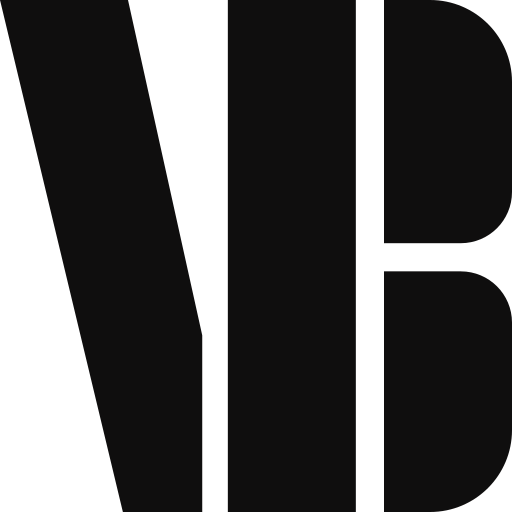
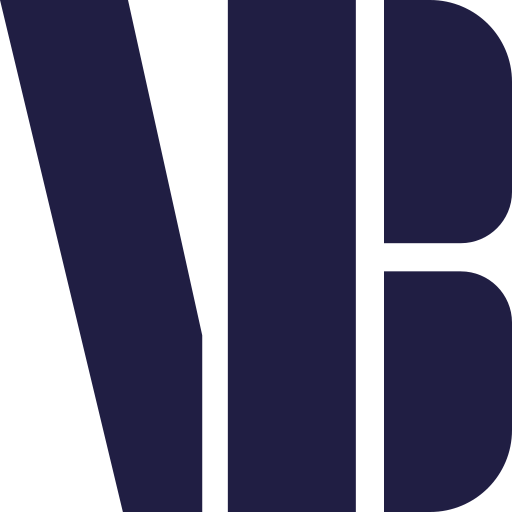
optimization

diff --git a/src/app/layout.tsx b/src/app/layout.tsx
@@ -14,7 +14,7 @@ const bricolageGrotesque = Bricolage_Grotesque({
 });
 
 export const viewport: Viewport = {
-  themeColor: "#0F0E0E",
+  themeColor: "#201E43",
   width: "device-width",
   initialScale: 1,
   maximumScale: 5,
@@ -23,11 +23,28 @@ export const viewport: Viewport = {
 export const metadata: Metadata = {
   metadataBase: new URL("https://barnetvilem.com"),
   title: {
-    default: "Vilém Barnet | Full-Stack Engineer",
-    template: "%s | Vilém Barnet",
+    default: "Vilém Barnet — Developer & Designer",
+    template: "%s — Vilém Barnet",
   },
   description:
-    "Full-Stack Engineer specializing in React, Next.js, TypeScript, and AI integration. Building elegant web solutions that drive results.",
+    "Vilém Barnet — freelance full-stack developer and web designer. I build high-performance websites, web apps, and brands using React, Next.js, and TypeScript. Available for hire.",
+  keywords: [
+    "Vilém Barnet",
+    "Vilem Barnet",
+    "full-stack developer",
+    "web developer",
+    "web designer",
+    "freelance developer",
+    "React developer",
+    "Next.js developer",
+    "TypeScript developer",
+    "frontend developer",
+    "web design",
+    "web applications",
+    "branding",
+    "UI design",
+    "portfolio",
+  ],
   authors: [{ name: "Vilém Barnet", url: "https://barnetvilem.com" }],
   creator: "Vilém Barnet",
   publisher: "Vilém Barnet",
@@ -56,38 +73,38 @@ export const metadata: Metadata = {
       {
         rel: "mask-icon",
         url: "/favicon.svg",
-        color: "#0F0E0E",
+        color: "#201E43",
       },
     ],
   },
   manifest: "/manifest.json",
   openGraph: {
     type: "website",
-    locale: "cs_CZ",
-    url: "https://vilembarnet.com",
+    locale: "en_US",
+    url: "https://barnetvilem.com",
     siteName: "Vilém Barnet",
-    title: "Vilém Barnet | Full-Stack Engineer",
+    title: "Vilém Barnet — Developer & Designer",
     description:
-      "Full-Stack Engineer specializing in React, Next.js, TypeScript, and AI integration. Building elegant web solutions that drive results.",
+      "Freelance full-stack developer and web designer building high-performance websites, web apps, and brands with React, Next.js, and TypeScript.",
     images: [
       {
-        url: "/og-image.jpg",
+        url: "/og-image.png",
         width: 1200,
         height: 630,
-        alt: "Vilém Barnet - Full-Stack Engineer",
+        alt: "Vilém Barnet — Developer & Designer",
       },
     ],
   },
   twitter: {
     card: "summary_large_image",
-    title: "Vilém Barnet | Full-Stack Engineer",
+    title: "Vilém Barnet — Developer & Designer",
     description:
-      "Full-Stack Engineer specializing in React, Next.js, TypeScript, and AI integration. Building elegant web solutions that drive results.",
+      "Freelance full-stack developer and web designer building high-performance websites, web apps, and brands with React, Next.js, and TypeScript.",
     creator: "@barnetvilem",
-    images: ["/og-image.jpg"],
+    images: ["/og-image.png"],
   },
   alternates: {
-    canonical: "https://vilembarnet.com",
+    canonical: "https://barnetvilem.com",
   },
   verification: {
     google: "googleeee94309a9949b14.html",
@@ -115,26 +132,87 @@ export default function RootLayout({
           dangerouslySetInnerHTML={{
             __html: JSON.stringify({
               "@context": "https://schema.org",
-              "@type": "Person",
-              name: "Vilém Barnet",
-              jobTitle: "Full-Stack Engineer",
-              description:
-                "Full-Stack Engineer specializing in React, Next.js, TypeScript, and AI integration",
-              url: "https://barnetvilem.com",
-              sameAs: [
-                "https://github.com/vilemb",
-                "https://x.com/barnetvilem",
-                "https://www.linkedin.com/in/vil%C3%A9m-barnet-497003365/",
-              ],
-              knowsAbout: [
-                "React",
-                "Next.js",
-                "TypeScript",
-                "JavaScript",
-                "Node.js",
-                "Python",
-                "AI Integration",
-                "Web Development",
+              "@graph": [
+                {
+                  "@type": "Person",
+                  "@id": "https://barnetvilem.com/#person",
+                  name: "Vilém Barnet",
+                  alternateName: "Vilem Barnet",
+                  jobTitle: "Full-Stack Developer & Web Designer",
+                  description:
+                    "Freelance full-stack developer and web designer specializing in React, Next.js, TypeScript, and modern web technologies. Building high-performance websites, web applications, and brand identities.",
+                  url: "https://barnetvilem.com",
+                  email: "barnetv7@gmail.com",
+                  sameAs: [
+                    "https://github.com/vilemb",
+                    "https://x.com/barnetvilem",
+                    "https://www.linkedin.com/in/vil%C3%A9m-barnet-497003365/",
+                    "https://instagram.com/barnetvilem",
+                  ],
+                  knowsAbout: [
+                    "React",
+                    "Next.js",
+                    "TypeScript",
+                    "JavaScript",
+                    "Node.js",
+                    "Python",
+                    "AI Integration",
+                    "Web Development",
+                    "Web Design",
+                    "UI/UX Design",
+                    "GSAP",
+                    "Branding",
+                    "Three.js",
+                    "Tailwind CSS",
+                  ],
+                  makesOffer: [
+                    {
+                      "@type": "Offer",
+                      itemOffered: {
+                        "@type": "Service",
+                        name: "Web Application Development",
+                        description:
+                          "Custom web application development using React, Next.js, and TypeScript",
+                      },
+                    },
+                    {
+                      "@type": "Offer",
+                      itemOffered: {
+                        "@type": "Service",
+                        name: "Web Design",
+                        description:
+                          "Modern, responsive web design with clean structure and considered motion",
+                      },
+                    },
+                    {
+                      "@type": "Offer",
+                      itemOffered: {
+                        "@type": "Service",
+                        name: "Branding",
+                        description:
+                          "Brand identity design including logos, visual systems, and brand guidelines",
+                      },
+                    },
+                  ],
+                },
+                {
+                  "@type": "WebSite",
+                  "@id": "https://barnetvilem.com/#website",
+                  url: "https://barnetvilem.com",
+                  name: "Vilém Barnet — Developer & Designer",
+                  publisher: {
+                    "@id": "https://barnetvilem.com/#person",
+                  },
+                },
+                {
+                  "@type": "ProfilePage",
+                  "@id": "https://barnetvilem.com/#profilepage",
+                  url: "https://barnetvilem.com",
+                  name: "Vilém Barnet Portfolio",
+                  mainEntity: {
+                    "@id": "https://barnetvilem.com/#person",
+                  },
+                },
               ],
             }),
           }}

diff --git a/src/app/work/layout.tsx b/src/app/work/layout.tsx
@@ -1,16 +1,19 @@
 import type { Metadata } from 'next';
 
 export const metadata: Metadata = {
-  title: 'Work & Projects',
-  description: 'Explore my portfolio of web applications, design projects, and branding work. Featuring Studio Eclipse, Stepps.AI, Lumenapps, and Travist.',
+  title: 'Selected Work',
+  description: 'Selected projects by Vilém Barnet — web applications, UI/UX design, and branding. Featuring Studio Eclipse, Stepps.AI, Lumenapps, and Travist. Built with React, Next.js, and TypeScript.',
   openGraph: {
-    title: 'Work & Projects | Vilém Barnet',
-    description: 'Explore my portfolio of web applications, design projects, and branding work.',
+    title: 'Selected Work — Vilém Barnet',
+    description: 'Selected projects by Vilém Barnet — web applications, UI/UX design, and branding work built with React, Next.js, and TypeScript.',
     url: 'https://barnetvilem.com/work',
   },
   twitter: {
-    title: 'Work & Projects | Vilém Barnet',
-    description: 'Explore my portfolio of web applications, design projects, and branding work.',
+    title: 'Selected Work — Vilém Barnet',
+    description: 'Selected projects by Vilém Barnet — web applications, UI/UX design, and branding work built with React, Next.js, and TypeScript.',
+  },
+  alternates: {
+    canonical: 'https://barnetvilem.com/work',
   },
 };
 

diff --git a/src/components/sections/DesignEthos.tsx b/src/components/sections/DesignEthos.tsx
@@ -32,7 +32,7 @@ export default function DesignEthos() {
         });
 
         tl.to(wordsElements, {
-            color: "#0F0E0E",
+            color: "#201E43",
             stagger: 0.1,
             ease: "power2.out",
         });
@@ -63,7 +63,7 @@ export default function DesignEthos() {
                     <div className="ethos-top-left">
                         <h2 ref={headingRef} className="ethos-heading">
                             {words.map((word, i) => (
-                                <span key={i} className="ethos-word" style={{ color: "color-mix(in srgb, var(--color-dark) 30%, var(--color-light))" }}>
+                                <span key={i} className="ethos-word" style={{ color: "#B0B0BB" }}>
                                     {word}{" "}
                                 </span>
                             ))}

diff --git a/src/components/sections/DrivenSection.tsx b/src/components/sections/DrivenSection.tsx
@@ -32,7 +32,7 @@ export default function DrivenSection() {
         });
 
         tl.to(wordsElements, {
-            color: "#0F0E0E",
+            color: "#201E43",
             stagger: 0.1,
             ease: "power2.out",
         });
@@ -60,7 +60,7 @@ export default function DrivenSection() {
                 <div className="driven-inner">
                     <h2 ref={headingRef} className="driven-heading">
                         {words.map((word, i) => (
-                            <span key={i} className="driven-word" style={{ color: "color-mix(in srgb, var(--color-dark) 30%, var(--color-light))" }}>
+                            <span key={i} className="driven-word" style={{ color: "#B0B0BB" }}>
                                 {word}{" "}
                             </span>
                         ))}

diff --git a/src/styles/globals.css b/src/styles/globals.css
@@ -5,9 +5,9 @@
 @import "./work.css";
 
 :root {
-  --color-light: #FCF9EA;
-  --color-dark: #0F0E0E;
-  --color-accent: #468A9A;
+  --color-light: #EEEEEE;
+  --color-dark: #201E43;
+  --color-accent: #508C9B;
 }
 
 .transition-container {
@@ -76,8 +76,8 @@
 
 @theme {
   --color-light: #EEEEEE;
-  --color-dark: #0F0E0E;
-  --color-accent: #468A9A;
+  --color-dark: #201E43;
+  --color-accent: #508C9B;
 
   --font-heading: var(--font-bricolage);
   --font-body: var(--font-bricolage);

diff --git a/src/components/PixelatedText.tsx b/src/components/PixelatedText.tsx
@@ -191,7 +191,7 @@ export default function PixelatedText({
       scene.add(planeMesh);
 
       renderer = new THREE.WebGLRenderer({ antialias: true, alpha: true });
-      renderer.setClearColor(0xFCF9EA, 1);
+      renderer.setClearColor(0xEEEEEE, 1);
       renderer.setSize(width, height);
       renderer.setPixelRatio(Math.min(window.devicePixelRatio, 2));
 

diff --git a/src/app/sitemap.ts b/src/app/sitemap.ts
@@ -16,11 +16,5 @@ export default function sitemap(): MetadataRoute.Sitemap {
       changeFrequency: "monthly",
       priority: 0.8,
     },
-    {
-      url: `${baseUrl}/contact`,
-      lastModified: new Date(),
-      changeFrequency: "monthly",
-      priority: 0.7,
-    },
   ];
 }

diff --git a/CLAUDE.md b/CLAUDE.md
@@ -53,8 +53,8 @@ The site uses Three.js WebGL shaders for interactive distortion effects on text 
 - **Tailwind CSS 4** with `@theme` directive
 - Custom CSS variables in `:root` and `@theme`:
   - `--color-light`: #EEEEEE
-  - `--color-dark`: #0F0E0E
-  - `--color-accent`: #468A9A
+  - `--color-dark`: #201E43
+  - `--color-accent`: #508C9B
 - Font: Bricolage Grotesque (weights 200-800) loaded in layout
 - Responsive breakpoints: 720px (mobile), 480px (small mobile)
 - Section-level styles in `globals.css` (`.home`, `.hero-*`, `.cta-*`)
